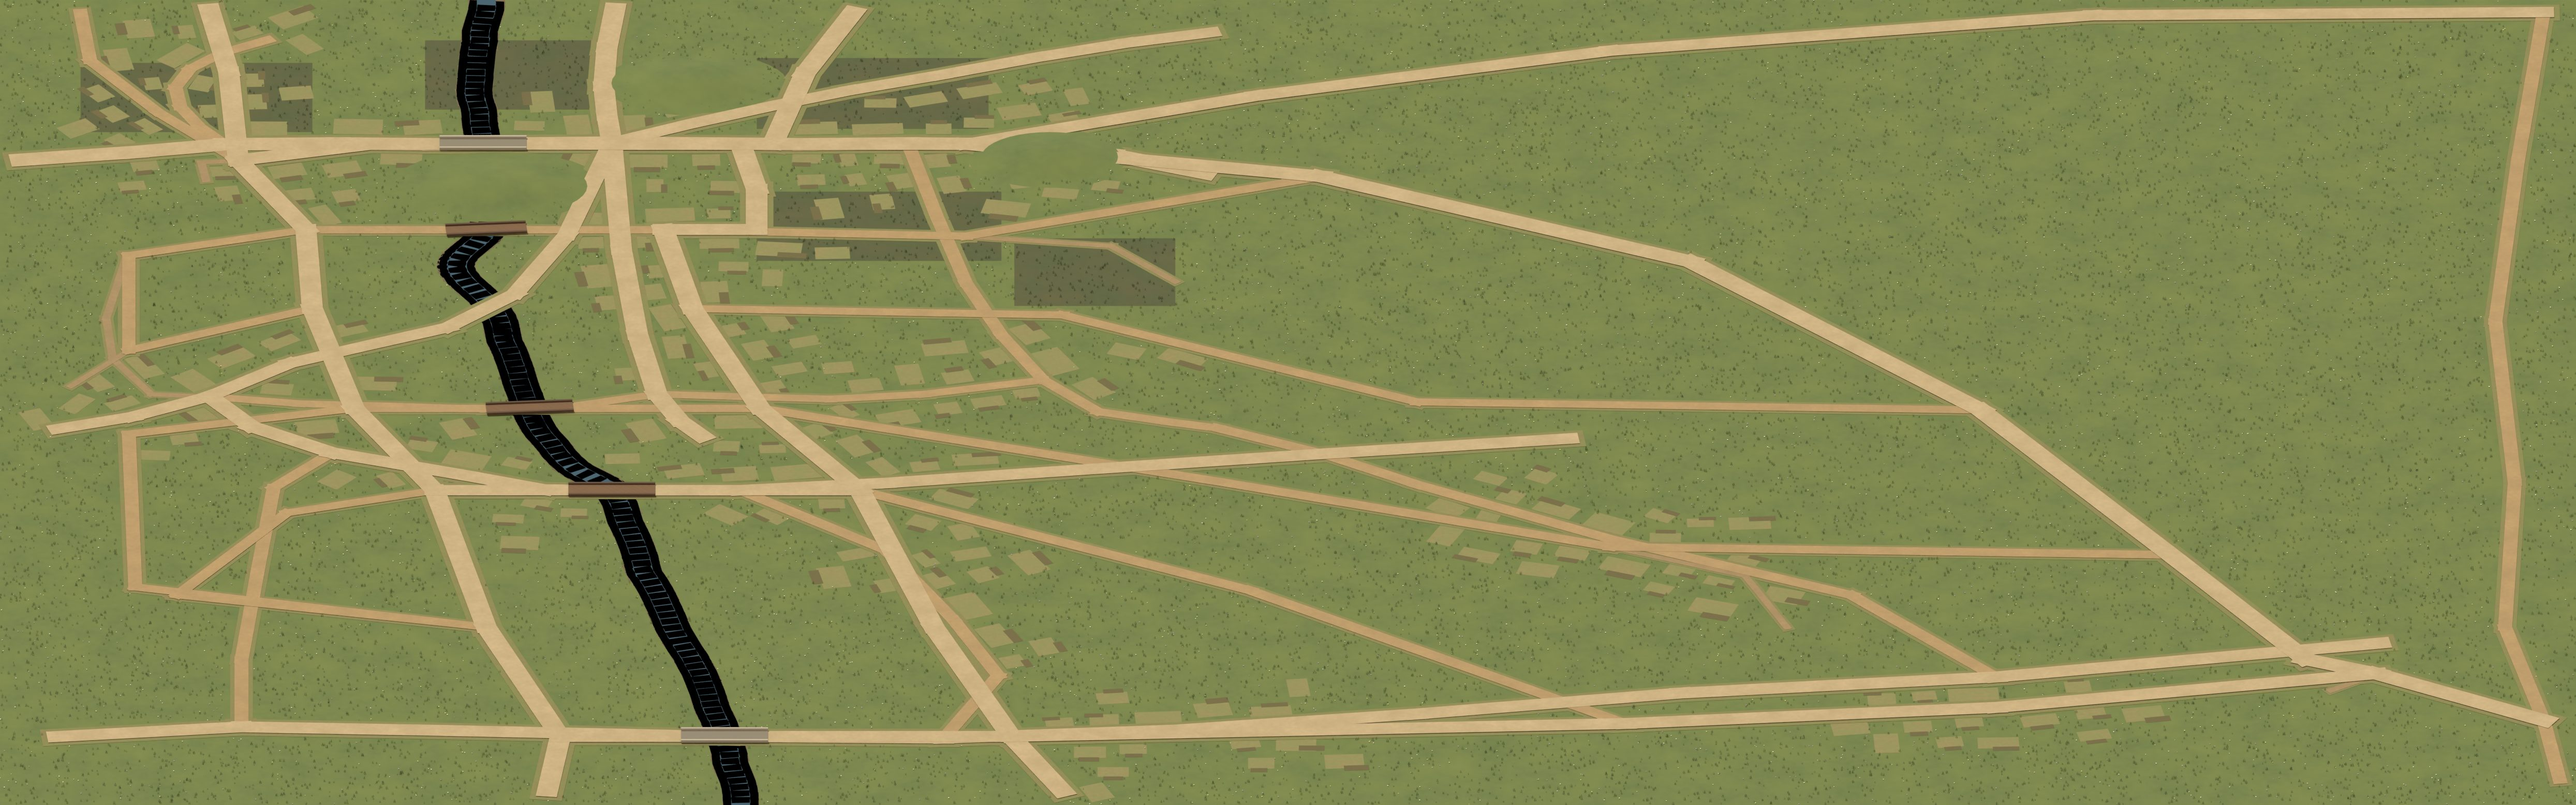
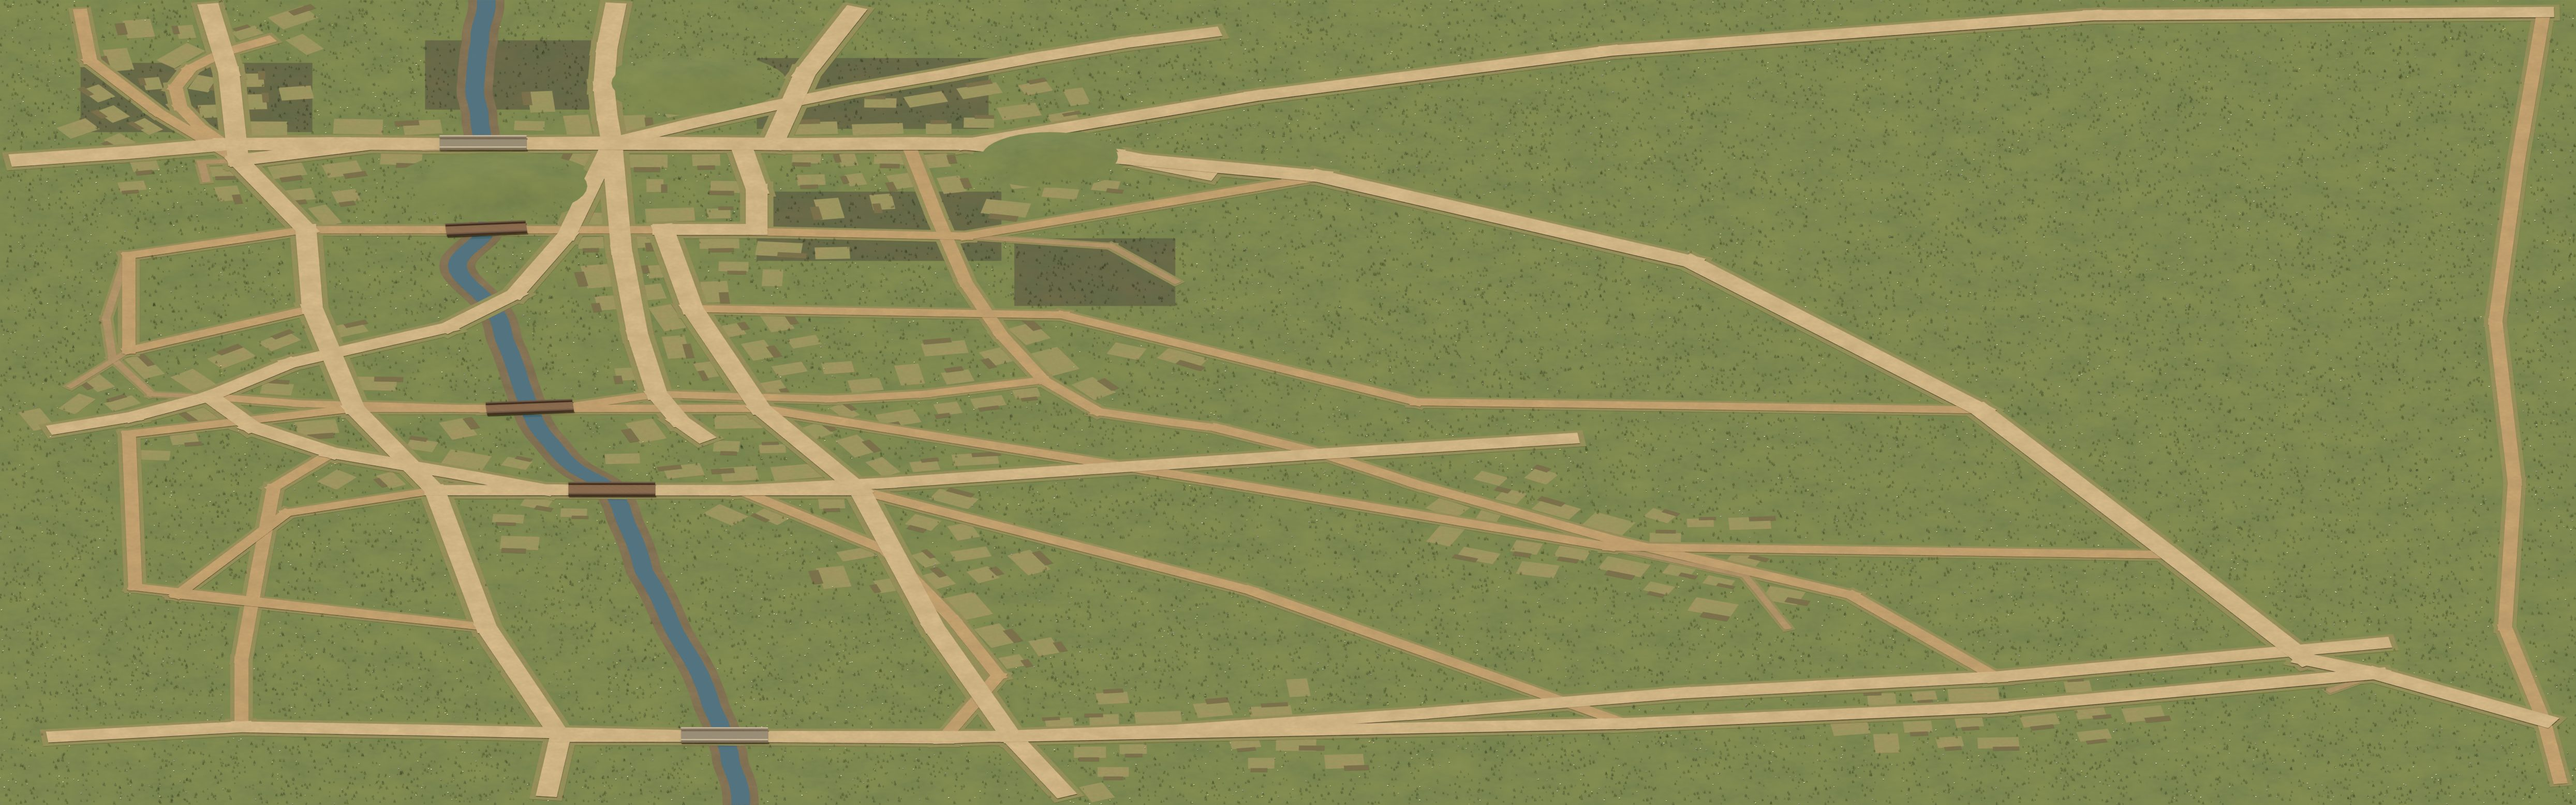
Iso view: clean river ribbon in the Blender ground; tests for the Blender ground, woods, peasant sprites and attack orders
Claude-Session: https://claude.ai/code/session_01JtYPWDhBYAE3XgwFqp4SE2

diff --git a/tests/iso-view-v1.spec.js b/tests/iso-view-v1.spec.js
@@ -29,12 +29,13 @@ test('with ?view=iso the game is drawn with the Blender sprites, terrain and pro
   const errors = await openGame(page, 'test=iso&view=iso');
   await page.waitForFunction(() => window.__ISO_VIEW_V1__?.stats().atlases >= 14, null, { timeout: 60_000 });
   // Let a few frames draw (the test page advances the simulation itself).
-  await page.waitForFunction(() => window.__ISO_VIEW_V1__.stats().sprites > 10 && window.__ISO_VIEW_V1__.stats().tilesDrawn > 0);
+  // Ground: the Blender battlefield, or the game's own terrain tiles until it has loaded.
+  await page.waitForFunction(() => window.__ISO_VIEW_V1__.stats().sprites > 10 &&
+    (window.__ISO_VIEW_V1__.stats().ground || window.__ISO_VIEW_V1__.stats().tilesDrawn > 0));
   const s = await stats(page);
   expect(s.on).toBe(true);
   expect(s.ppm).toBe(22.5);
   expect(s.props).toBeGreaterThan(5);
-  expect(s.workers).toBeGreaterThan(0);
   await expect(page.locator('#isoViewToggle')).toHaveText('🗺 2D-kaart');
   // Iso projection: the ground is squashed to half height.
   const dy = await page.evaluate(() => screenToWorld(innerWidth / 2, innerHeight / 2 + 100).y - screenToWorld(innerWidth / 2, innerHeight / 2).y);
@@ -166,5 +167,44 @@ test('iso view: soldiers stay readable - side rings, scenery in front of them tu
   // In the 2D map the Overzicht button is hidden.
   await page.locator('#isoViewToggle').click();
   await expect(page.locator('#isoOverviewToggle')).toBeHidden();
+  expect(errors).toEqual([]);
+});
+
+test('iso view: the battlefield ground, woods and peasants come from Blender', async ({ page }) => {
+  const errors = await openGame(page, 'test=iso-ground&view=iso');
+  await page.waitForFunction(() => window.__ISO_VIEW_V1__?.stats().ground === true, null, { timeout: 60_000 });
+  await page.waitForFunction(() => window.__ISO_VIEW_V1__.stats().workerSprites === true, null, { timeout: 60_000 });
+  const s = await page.evaluate(() => window.__ISO_VIEW_V1__.stats());
+  expect(s.woodTrees).toBeGreaterThan(50);
+  // Peasants drawn as sprites, not the stand-in figures.
+  await page.waitForFunction(() => window.__ISO_VIEW_V1__.stats().workers === 0 && window.__ISO_VIEW_V1__.stats().sprites > 10);
+  expect(errors).toEqual([]);
+});
+
+test('iso view: a right-click on an enemy sends the selection to musket reach facing it, with a target sight', async ({ page }) => {
+  const errors = await openGame(page, 'test=iso-attack&view=iso');
+  await page.waitForFunction(() => window.__ISO_VIEW_V1__?.stats().sprites > 5, null, { timeout: 60_000 });
+  const ids = await page.evaluate(() => {
+    const D = window.__RTS_DEBUG__, base = units.find(u => u.side === 'france' && u.type === 'infantry');
+    for (let i = 0; i < 12; i++) createUnit('france', 'infantry', base.x + i * 3, base.y + 40);
+    const id = D.createRegimentDirect('france'); D.selectRegiment(id);
+    const enemy = [];
+    for (let i = 0; i < 10; i++) enemy.push(createUnit('britain', 'infantry', base.x + 120 + i * 18, base.y + 170).id);
+    camera.x = base.x + 120; camera.y = base.y + 110; camera.zoom = 0.9;
+    return { id, enemy };
+  });
+  await page.waitForFunction(() => window.__ISO_VIEW_V1__.stats().sprites > 20);
+  const e = await page.evaluate(id => window.__ISO_VIEW_V1__.bodyOf(units.find(u => u.id === id)), ids.enemy[4]);
+  const before = await page.evaluate(() => window.__ISO_VIEW_V1__.stats().attacks || 0);
+  await page.mouse.click(e.x, e.y, { button: 'right' });
+  expect(await page.evaluate(() => window.__ISO_VIEW_V1__.stats().attacks || 0)).toBe(before + 1);
+  // The regiment closes on the enemy and ends at about musket reach.
+  await page.evaluate(() => window.__RTS_DEBUG__.tick(12));
+  const gap = await page.evaluate(([id, enemy]) => {
+    const own = regimentMembers(getRegiment(id)).filter(u => !u.dead), foe = units.filter(u => enemy.includes(u.id) && !u.dead);
+    const a = centroid(own), b = centroid(foe);
+    return Math.hypot(a.x - b.x, a.y - b.y);
+  }, [ids.id, ids.enemy]);
+  expect(gap).toBeLessThan(160);
   expect(errors).toEqual([]);
 });
